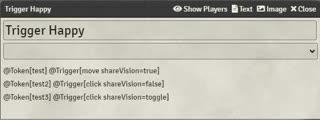
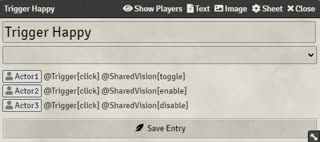
v1.0.8

diff --git a/src/externalModules.js b/src/externalModules.js
@@ -7,7 +7,27 @@ var heyWaitActive;
 
 export function setTriggerHappyActive(en){
   triggerHappyActive = en;
+
+  if (en) game.triggers.registerEffect('SharedVision');
 }
+
+Hooks.on('TriggerHappy', (key, args) => {
+  if (key == 'SharedVision') {
+    let enable;
+    if (args == 'enable') enable = true;
+    else if (args == 'disable') enable = false;
+    else if (args == 'toggle') enable = !game.settings.get(moduleName,'enable');
+    if (enable != game.settings.get(moduleName,'enable')) {
+      if (game.user.isGM){
+        shareVision(enable);
+        ui.controls.controls.find(controls => controls.name == "token").tools.find(tools => tools.name == "enableSharedVision").active = enable;
+        ui.controls.render();
+      }
+      else
+        userSet(enable);
+    }
+  }
+})
 
 export function setHeyWaitActive(en){
   heyWaitActive = en;
@@ -60,62 +80,4 @@ export function heyWait_onTileHud(tileHud,html){
     tile.data.flags['sharedVision'] = {enabled:!enabled};
     tileHud.render();
   });
-}
-
-
-
-
-export function triggerHappy_onPreUpdateToken(scene, embedded, update, options, userId) {
-  if (!scene.isView || triggerHappyActive == false) return true;
-  if (update.x === undefined && update.y === undefined) return true;
-  const token = scene.data.tokens.find(t => t._id === update._id);
-
-  const position = {
-    x: (update.x || token.x) + token.width * scene.data.grid / 2,
-    y: (update.y || token.y) + token.height * scene.data.grid / 2
-  };
-  const movementTokens = canvas.tokens.placeables.filter(tok => tok.data._id !== token._id);
-  const tokens = game.triggers._getPlaceablesAt(movementTokens, position);
-  const drawings = game.triggers._getPlaceablesAt(canvas.drawings.placeables, position);
-  if (tokens.length === 0 && drawings.length === 0) return true;
-  const triggers = game.triggers._getTriggersFromTokens(game.triggers.triggers, tokens, 'move');
-  triggers.push(...game.triggers._getTriggersFromDrawings(game.triggers.triggers, drawings, 'move'));
-
-  if (triggers.length === 0) return true;
-
-  for (let t of triggers) {
-    const options = t.options;
-    Hooks.once('updateToken', () => triggerHappy_AnalyzeOptions(options));
-  }
-}
-  
-export function triggerHappy_ControlToken(token,controlled){
-  if (!controlled || triggerHappyActive == false) return;
-  const tokens = [token];
-  const triggers = game.triggers._getTriggersFromTokens(game.triggers.triggers, tokens, 'click');
-  if (triggers.length === 0) return;
-  const options = triggers[0].options;
-  triggerHappy_AnalyzeOptions(options)
-}
-  
-export function triggerHappy_AnalyzeOptions(options){
-  for (let o of options) {
-    if (o.includes('shareVision')) {
-      let enable;
-      const data = o.replace('shareVision=','');
-      if (data == 'true') enable = true;
-      else if (data == 'false') enable = false;
-      else if (data == 'toggle') enable = !game.settings.get(moduleName,'enable');
-
-      if (enable != game.settings.get(moduleName,'enable')) {
-        if (game.user.isGM){
-          shareVision(enable);
-          ui.controls.controls.find(controls => controls.name == "token").tools.find(tools => tools.name == "enableSharedVision").active = enable;
-          ui.controls.render();
-        }
-        else
-          userSet(enable);
-      }
-    }
-  }
 }

diff --git a/sharedvision.js b/sharedvision.js
@@ -1,6 +1,6 @@
 import {pushControlButtons} from "./src/controlButtons.js";
 import {initializeSources, onSetShareVision, compatibleCore} from "./src/misc.js";
-import {triggerHappy_ControlToken, triggerHappy_onPreUpdateToken, heyWait_onTileHud, setTriggerHappyActive, setHeyWaitActive} from "./src/externalModules.js";
+import {heyWait_onTileHud, setTriggerHappyActive, setHeyWaitActive} from "./src/externalModules.js";
 import {visionConfig} from './src/visionConfig.js';
 import {libWrapper} from './src/shim.js';
 import {registerSettings} from "./src/settings.js";
@@ -11,13 +11,14 @@ export const moduleName = "SharedVision";
 export let midiQOL;
 
 Hooks.once('init', function()                                         { onInit() });
+Hooks.once('setup', function()                                        { onSetup() });
 Hooks.on('getSceneControlButtons', (controls)                     =>  { pushControlButtons(controls) });  //Register control button
 Hooks.on('setShareVision',(data)                                  =>  { onSetShareVision(data) });
 Hooks.on('canvasReady',()                                         =>  { onCanvasReady() });
-Hooks.on('updateToken',()                                         =>  { emitSharedVision(game.settings.get(moduleName,'enable'))});
+Hooks.on('updateToken',()                                         =>  { emitSharedVision(game.settings.get(moduleName,'enable'), false)});
 
-Hooks.on('controlToken',(token,controlled)                        =>  { triggerHappy_ControlToken(token,controlled) });
-Hooks.on('preUpdateToken',(scene, embedded, update)               =>  { triggerHappy_onPreUpdateToken(scene, embedded, update) });
+//Hooks.on('controlToken',(token,controlled)                        =>  { triggerHappy_ControlToken(token,controlled) });
+//Hooks.on('preUpdateToken',(scene, embedded, update)               =>  { triggerHappy_onPreUpdateToken(scene, embedded, update) });
 Hooks.on('renderTileHUD', async (tileHud, html)                   =>  { heyWait_onTileHud(tileHud,html) });
 
 function onInit(){
@@ -52,9 +53,13 @@ function onInit(){
     
 }
 
-Hooks.once('ready', function() {
+function onSetup() {
     const triggerHappy = game.modules.get("trigger-happy");
     setTriggerHappyActive(triggerHappy != undefined && triggerHappy.active == true)
+}
+
+Hooks.once('ready', function() {
+    
 
     const heyWait = game.modules.get("hey-wait");
     setHeyWaitActive(heyWait != undefined && heyWait.active == true)
@@ -73,6 +78,8 @@ Hooks.once('ready', function() {
         Token.prototype._isVisionSource = isVisionSourceOverride;
         if (compatibleCore('0.8.6')) ForegroundLayer.prototype.updateOcclusion = updateOcclusionOverride;
     }
+
+    if (!game.user.isGM) initializeSources();
 });
 
 async function onCanvasReady(){

diff --git a/src/socket.js b/src/socket.js
@@ -1,4 +1,4 @@
-import {initializeSources} from "./misc.js";
+import {initializeSources, onSetShareVision} from "./misc.js";
 import {heyWait_onTrigger} from "./externalModules.js";
 
 /*
@@ -6,21 +6,24 @@ import {heyWait_onTrigger} from "./externalModules.js";
  */
 export function socketInit(){
     game.socket.on(`module.SharedVision`, (payload) =>{
-        if (game.user.isGM == false && payload.msgType == "enable") initializeSources();
+        if (game.user == null) return;
+        if (game.user.isGM == false && payload.msgType == "enable") initializeSources(payload.newSource);
         else if (game.user.isGM && payload.msgType == "userSet") onSetShareVision({enable:payload.enable});
     }); 
     
     game.socket.on('module.hey-wait', (payload) =>{
+        if (game.user == null) return;
         if (game.user.isGM) 
             heyWait_onTrigger(payload.sceneId,payload.tileId);
     });
 }
 
-export function emitSharedVision(en){
+export function emitSharedVision(en, newSource = true){
     const payload = {
         "msgType": "enable",
         "senderId": game.userId, 
-        "enable": en
+        "enable": en,
+        "newSource": newSource
     };
     game.socket.emit(`module.SharedVision`, payload);
 }

diff --git a/src/misc.js b/src/misc.js
@@ -32,7 +32,7 @@ export async function shareVision(en) {
   Hooks.call("ShareVision",{enable:en});
 }
   
-export function initializeSources(){
+export async function initializeSources(updateSource = false){
   if (compatibleCore("0.8.5")) {
     //canvas.perception.initialize();
     canvas.perception.initialize({
@@ -42,7 +42,20 @@ export function initializeSources(){
       foreground: {refresh: true}
     });
   }
-  else canvas.initializeSources();
+  else await canvas.initializeSources();
+
+  const tokens = canvas.tokens.placeables;
+  let sightLayer = canvas.layers.find(l => l.options.name === 'sight');
+  for (let token of tokens) {
+    const actor = game.actors.get(token.data.actorId);
+    const userSettings = actor.getFlag('SharedVision','userSetting');
+    let thisUser = userSettings?.find(u => u.id == game.userId)?.enable
+    if (actor.getFlag('SharedVision','enable') || thisUser) {
+      let origin = token.getSightOrigin();
+      sightLayer.updateFog(origin, true);
+      //sightLayer.sources.set(token.sourceId,token.source)
+    }
+  }
 }
 
 export function getPermission(entity,user,permissionLevel) {

diff --git a/src/visionConfig.js b/src/visionConfig.js
@@ -74,14 +74,11 @@ export class visionConfig extends FormApplication {
         await this.actor.setFlag('SharedVision','enable',formData.sharedVisionButton);
         await this.actor.setFlag('SharedVision','hidden',formData.sharedVisionHiddenButton);
         let newSettings = [];
-        if (formData.sharedVision.length == undefined) {
-            newSettings = [{id:this.userSettings[0].id, enable:formData.sharedVision}];
-        }
-        else {
-            for (let i=0; i<formData.sharedVision.length; i++) {
-                newSettings.push({id:this.userSettings[i].id, enable:formData.sharedVision[i]});
-            }
-        }
+
+        for (let user of this.userSettings) 
+            if (formData?.[`sharedVision-${user.id}`] === true || formData?.[`sharedVision-${user.id}`] === false)
+                newSettings.push({id: user.id, enable: formData?.[`sharedVision-${user.id}`]});
+        
           
         await this.actor.setFlag('SharedVision','userSetting',newSettings);
         initializeSources();

diff --git a/templates/visionConfig.html b/templates/visionConfig.html
@@ -10,6 +10,7 @@
       <input id="sharedVisionHiddenButton" type="checkbox" name="sharedVisionHiddenButton" data-dtype="Boolean" {{#if hidden}}checked{{/if}}>
     </div>
     <p class="notes">{{localize "SharedVision.VisionConf.Hidden.Note"}}</p>
+
     <hr>
     <h3>User Settings</h3>
     <p class="notes">{{localize "SharedVision.VisionConf.User.Note"}}</p>
@@ -17,7 +18,7 @@
     {{#each users as |u|}}
         <div class="form-group">
             <label>{{u.name}}</label>
-            <input id="userVision-{{u.id}}" type="checkbox" name="sharedVision" data-dtype="Boolean" {{#if u.enable}}checked{{/if}}>
+            <input id="userVision-{{u.id}}" type="checkbox" name="sharedVision-{{u.id}}" {{#if u.enable}}checked{{/if}}>
         </div>
     {{/each}}
     <button type="submit" name="submit">

diff --git a/README.md b/README.md
@@ -43,13 +43,12 @@ The control button has an eye icon, and is toggleable.
 ![controlButtons](https://github.com/CDeenen/SharedVision/blob/master/img/examples/ControlButtons.png)
 
 <h2>Trigger Happy</h2>
-<a href="https://foundryvtt.com/packages/trigger-happy/">Trigger Happy</a> can add triggers to Foundry, for example when a token moves onto another token, or when it is clicked.
-Global Shared Vision can be triggered through Trigger Happy on a 'click' or 'move' trigger.<br>
-You set this up like you would any other trigger, and you add 'shareVision=true', 'shareVision=false' or 'shareVision=toggle' to the '@Trigger' pseudo link.<br>
+Global Shared Vision can be enabled through <a href="https://foundryvtt.com/packages/trigger-happy/">Trigger Happy</a> triggers, for example when a token moves onto another token, or when it is clicked.<br>
+You set this up like you would any other trigger, and you add `@SharedVision[toggle]`, `@SharedVision[enable]` or `@SharedVision[disable]` trigger to toggle, enable or disable Global Shared Vision, respectively.<br>
 <br>
 <b>Example:</b><br>
 To enable Global Shared Vision when a token moves unto another token called 'test', you use:<br>
-'@Token[test] @Trigger[move shareVision=true]'<br>
+`@Token[test] @Trigger[move] @SharedVision[enable]`<br>
 <br>
 For more info on how to use Trigger Happy, please read the <a href="https://github.com/League-of-Foundry-Developers/fvtt-module-trigger-happy/blob/master/README.md">documentation</a>.
         

diff --git a/changelog.md b/changelog.md
@@ -1,4 +1,10 @@
 # Changelog
+### v1.0.8 - 05-07-2022
+-Fixed issue where the user settings in the vision config wouldn't save under certain circumstances
+-Fixed Trigger Happy compatibility
+-Fog of War is now updated for tokens that share their vision
+-Fixed issue where shared vision would not be properly applied after a refresh
+
 ### v1.0.7 - 17-12-2021
 -Added option to share vision with tokens based on disposition
 -Fixed compatibility issue with midi-qol
